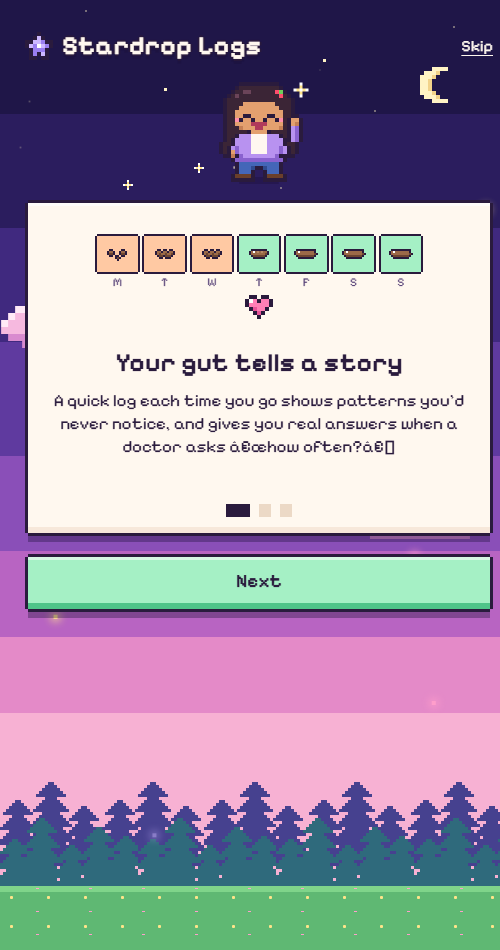
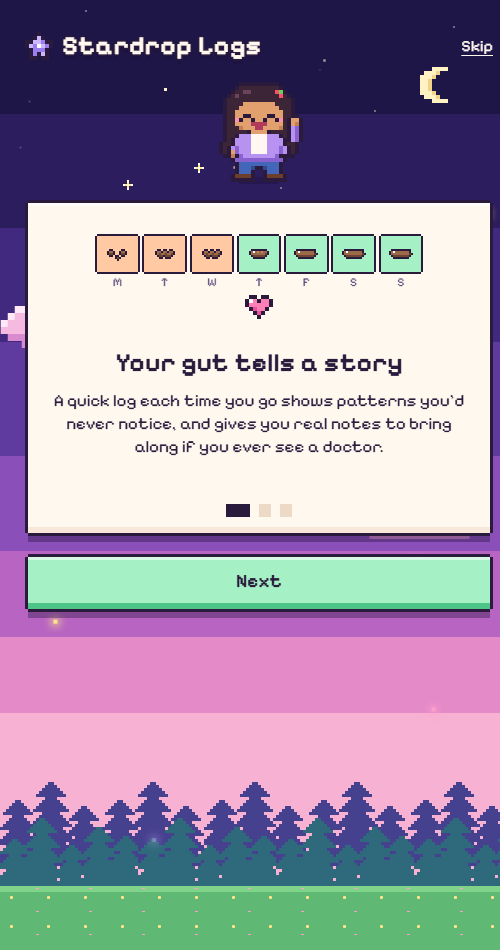
Firm medical disclaimer, red-flag colours, launch checks
- New /disclaimer page; a "not medical advice, see a doctor" note under
  every main screen; sign-up agreement names it explicitly
- Every health message now points to a real doctor; red, black and pale
  colours always say "please see a doctor" (today card + after saving)
- Email footers carry the disclaimer
- Fix garbled quotes on the first welcome slide
- Pin Node >= 20.9 for Vercel

Changed region(s): [[0.12, 0.4274, 0.9, 0.4884], [0.6, 0.0916, 0.63, 0.1221], [0.09, 0.6411, 0.12, 0.6716]]

diff --git a/src/lib/rhythm.ts b/src/lib/rhythm.ts
@@ -1,9 +1,11 @@
 // "Is this normal?" for how often someone goes.
 //
 // The usual rule of thumb is anywhere from 3 times a day to 3 times a week,
-// with type 3-4 being the comfy middle. So the answer depends on two things:
-// how many times today, and whether those were loose or dry. The wording is
-// gentle on purpose. It's a nudge, not a diagnosis.
+// with type 3-4 being the comfy middle. So the answer depends on how many
+// times today, whether those were loose or dry, and the colour.
+// This is a general rule of thumb, never a diagnosis: anything unusual
+// points the person to a doctor.
+import { COLORS } from "./colors";
 import { dayKey, daysAgo } from "./dates";
 import type { PoopLog } from "./types";
 
@@ -38,12 +40,20 @@ export function todayRhythm(today: PoopLog[]): Rhythm {
   const watery = today.some((l) => l.stool_type === 7);
   const dry = today.filter((l) => l.category === "dry").length;
 
+  if (today.some((l) => COLORS[l.color].checkIn)) {
+    return {
+      level: "talk",
+      title: "Please check in with a doctor",
+      detail:
+        "You logged a colour that a doctor should look at. This app can't tell you what it means, so please book a visit, and seek urgent care if you feel unwell.",
+    };
+  }
   if (loose >= 3 || (watery && n >= 3)) {
     return {
       level: "talk",
       title: "A rainy day for your tummy",
       detail:
-        "Several loose ones today. Sip water or an electrolyte drink and keep meals gentle. If it lasts more than 2 days, or you see blood or have a fever, check in with a doctor.",
+        "Several loose ones today. Please see a doctor if it lasts more than 2 days, or straight away if you see blood, have a fever or feel very unwell.",
     };
   }
   if (n > NORMAL_MAX_PER_DAY) {
@@ -51,14 +61,14 @@ export function todayRhythm(today: PoopLog[]): Rhythm {
       level: "watch",
       title: `${n} times is a busy day`,
       detail:
-        "That's more than the usual 3 a day. Often it's just food, coffee or nerves. If it keeps happening for a few days, it's worth mentioning to a doctor.",
+        "That's more than the usual 3 a day. If it keeps happening, or you feel unwell, please see a doctor.",
     };
   }
   if (loose >= 2) {
     return {
       level: "watch",
       title: "A little on the loose side",
-      detail: "Keep sipping fluids today. Plain, gentle food can help things settle.",
+      detail: "Keep sipping water today. If it doesn't settle or you feel unwell, please see a doctor.",
     };
   }
   if (dry > 0 && dry === n) {

diff --git a/src/app/disclaimer/page.tsx b/src/app/disclaimer/page.tsx
@@ -1,0 +1,58 @@
+import Link from "next/link";
+import AuthShell from "@/components/auth/AuthShell";
+
+export const metadata = { title: "Not medical advice" };
+
+// Plain-English medical disclaimer, linked from sign-up and every screen.
+const SEE_A_DOCTOR = [
+  "Blood in or on your stool, or red, black or tarry stool",
+  "Pale, clay-coloured or greasy stool",
+  "Belly pain that's strong, or doesn't go away",
+  "Diarrhea lasting more than 2 days, or signs of dehydration",
+  "No bowel movement for several days with discomfort or bloating",
+  "Fever, vomiting, or losing weight without trying",
+  "Any change in your habits that lasts more than a couple of weeks",
+  "Anything at all that worries you",
+];
+
+export default function DisclaimerPage() {
+  return (
+    <AuthShell
+      title="Not medical advice"
+      subtitle="Please read this. It's short, and it matters."
+      mia="inspect"
+      footer={<Link href="/" className="underline underline-offset-4">Back to the garden</Link>}
+    >
+      <div className="flex flex-col gap-4 text-[17px]">
+        <p>
+          Stardrop Logs is a <strong>wellness diary</strong>. It helps you keep notes and spot patterns.
+          It is <strong>not a medical device or service</strong>, and nobody here is a doctor.
+        </p>
+        <p>
+          Nothing in the app (Mia&apos;s tips, the &quot;is this normal?&quot; notes, the charts or the
+          suggestions) is a diagnosis or treatment, and none of it replaces advice from a
+          qualified health professional. Never delay or skip seeing a doctor because of something
+          you read here.
+        </p>
+
+        <section className="bg-cream-2 px-3 py-3">
+          <h2 className="text-[19px] font-bold">Please see a doctor if you notice</h2>
+          <ul className="mt-2 flex list-disc flex-col gap-1 pl-5 text-[16px]">
+            {SEE_A_DOCTOR.map((item) => (
+              <li key={item}>{item}</li>
+            ))}
+          </ul>
+        </section>
+
+        <p className="bg-[#ffe1ec] px-3 py-2.5 font-semibold">
+          In an emergency (severe pain, heavy bleeding, fainting, or feeling very unwell), call your
+          local emergency number or go to the nearest emergency department straight away.
+        </p>
+
+        <p className="text-[16px] text-plum-soft">
+          Your logs can be handy to show your doctor. Settings &gt; Export downloads them as a spreadsheet.
+        </p>
+      </div>
+    </AuthShell>
+  );
+}

diff --git a/src/components/log/LogCreator.tsx b/src/components/log/LogCreator.tsx
@@ -14,7 +14,7 @@ import type { MiaHandle } from "@/components/mia/MiaSprite";
 import PixelArt from "@/components/ui/PixelArt";
 import { buttonClass, pressBoing, releaseBoing } from "@/components/ui/PixelButton";
 import { BRISTOL_LIST, CATEGORY_COLOR, categoryOf } from "@/lib/bristol";
-import { COLOR_LIST } from "@/lib/colors";
+import { COLORS, COLOR_LIST } from "@/lib/colors";
 import { FACTOR_LIST } from "@/lib/factors";
 import { CROP_ART } from "@/lib/crops";
 import { dayKey } from "@/lib/dates";
@@ -380,7 +380,7 @@ export default function LogCreator({ recentTimes = [], tryOut = false }: Readonl
         </button>
       </div>
 
-      {done && <PlantedOverlay category={done.category} nth={done.nth} tryOut={tryOut} />}
+      {done && <PlantedOverlay category={done.category} nth={done.nth} tryOut={tryOut} seeDoctor={COLORS[color].checkIn} />}
     </div>
   );
 }
@@ -391,7 +391,15 @@ function submitLabel(pending: boolean, ready: boolean, tryOut: boolean) {
   return ready ? "Plant it!" : "Pick a type first";
 }
 
-function PlantedOverlay({ category, nth, tryOut }: Readonly<{ category: StoolCategory; nth: number; tryOut: boolean }>) {
+interface PlantedProps {
+  category: StoolCategory;
+  nth: number;
+  tryOut: boolean;
+  /** A colour that always gets a "see a doctor" note. */
+  seeDoctor: boolean;
+}
+
+function PlantedOverlay({ category, nth, tryOut, seeDoctor }: Readonly<PlantedProps>) {
   const text = DONE_TEXT[category];
   const crop = CROP_ART[PLANTED_CROP[category]];
   return (
@@ -407,6 +415,11 @@ function PlantedOverlay({ category, nth, tryOut }: Readonly<{ category: StoolCat
         <PixelArt grid={crop} scale={7} />
         <p className="text-[26px] font-bold">{text.title}</p>
         <p className="text-[17px]">{tryOut ? "That's all it takes! (Just a demo, nothing was saved.)" : text.body}</p>
+        {seeDoctor && (
+          <p className="bg-[#ffe1ec] px-3 py-2 text-[15px] font-semibold">
+            That colour needs a doctor&apos;s opinion. Please book a visit.
+          </p>
+        )}
         {nth > 1 && (
           <p className="text-[15px] text-plum-soft">
             That&apos;s your {ordinal(nth)} today.{nth > 3 ? " Busy day! I'll keep an eye on it." : " Totally normal!"}

diff --git a/src/lib/colors.ts b/src/lib/colors.ts
@@ -1,5 +1,5 @@
-// Stool colours with friendly names. The checkIn ones come with a gentle
-// "worth asking a doctor" note.
+// Stool colours with friendly names. The checkIn ones always come with a
+// "please see a doctor" note. The app never guesses what a colour means.
 import type { StoolColor } from "./types";
 
 export interface ColorInfo {
@@ -16,10 +16,10 @@ export const COLORS: Record<StoolColor, ColorInfo> = {
   dark_brown:  { key: "dark_brown",  label: "Dark loam",  hex: "#5b3a2a", checkIn: false },
   light_brown: { key: "light_brown", label: "Sandy loam", hex: "#b98a5e", checkIn: false },
   green:       { key: "green",       label: "Mossy",      hex: "#6f8f3e", checkIn: false, note: "Often from leafy greens. Totally normal!" },
-  yellow:      { key: "yellow",      label: "Straw",      hex: "#d9b44a", checkIn: false, note: "If it's greasy or sticks around, mention it to a doctor." },
-  clay_pale:   { key: "clay_pale",   label: "Pale clay",  hex: "#d8cbb2", checkIn: true,  note: "Pale or clay-coloured stool is worth checking with a doctor." },
-  red:         { key: "red",         label: "Red clay",   hex: "#a83a32", checkIn: true,  note: "Unless you've had beets, red is worth checking with a doctor." },
-  black:       { key: "black",       label: "Charcoal",   hex: "#2b2424", checkIn: true,  note: "Unless you take iron or bismuth, black is worth checking with a doctor." },
+  yellow:      { key: "yellow",      label: "Straw",      hex: "#d9b44a", checkIn: false, note: "If it's greasy or keeps happening, please see a doctor." },
+  clay_pale:   { key: "clay_pale",   label: "Pale clay",  hex: "#d8cbb2", checkIn: true,  note: "Pale or clay-coloured stool needs a doctor's opinion. Please book a visit." },
+  red:         { key: "red",         label: "Red clay",   hex: "#a83a32", checkIn: true,  note: "Red can be a sign of blood. Please see a doctor to be safe." },
+  black:       { key: "black",       label: "Charcoal",   hex: "#2b2424", checkIn: true,  note: "Black or tarry stool needs a doctor's opinion. Please see one soon." },
 };
 
 export const COLOR_LIST = Object.values(COLORS);

diff --git a/src/components/dashboard/TodayCard.tsx b/src/components/dashboard/TodayCard.tsx
@@ -132,8 +132,8 @@ export default function TodayCard(props: Readonly<TodayCardProps>) {
 
       {longGap && (
         <p className="mt-3 bg-cream-2 px-3 py-2 text-[15px]">
-          It&apos;s been {days} days. If you feel bloated, in pain or unwell, or it keeps going, a
-          pharmacist or doctor can help.
+          It&apos;s been {days} days. If you feel bloated, in pain or unwell, or it keeps going,
+          please see a doctor.
         </p>
       )}
 
@@ -157,7 +157,7 @@ export default function TodayCard(props: Readonly<TodayCardProps>) {
       {/* Ideas stay folded away so the card stays calm. */}
       <details className="group mt-3">
         <summary className="cursor-pointer list-none text-[16px] text-plum-soft underline underline-offset-4">
-          <span className="group-open:hidden">Haven&apos;t gone? A few gentle ideas</span>
+          <span className="group-open:hidden">Haven&apos;t gone? A few everyday ideas</span>
           <span className="hidden group-open:inline">Hide ideas</span>
         </summary>
         <ul className="mt-3 flex flex-col gap-2.5">
@@ -173,6 +173,7 @@ export default function TodayCard(props: Readonly<TodayCardProps>) {
             </li>
           ))}
         </ul>
+        <p className="mt-2 text-[13px] text-plum-soft">Everyday habits, not treatment. See a doctor for anything that worries you.</p>
       </details>
     </section>
   );

diff --git a/src/components/auth/Welcome.tsx b/src/components/auth/Welcome.tsx
@@ -17,7 +17,7 @@ gsap.registerPlugin(useGSAP);
 const SLIDES: { title: string; body: string; mia: MiaState; Art: ComponentType }[] = [
   {
     title: "Your gut tells a story",
-    body: "A quick log each time you go shows patterns you'd never notice, and gives you real answers when a doctor asks â€œhow often?â€",
+    body: "A quick log each time you go shows patterns you'd never notice, and gives you real notes to bring along if you ever see a doctor.",
     mia: "help",
     Art: WeekStory,
   },
@@ -129,7 +129,10 @@ export default function Welcome({ bye = false }: Readonly<{ bye?: boolean }>) {
               Peek at a sample
             </Link>
           </div>
-          <p className="text-center text-[15px] text-cream">Private by default: only you can see your logs.</p>
+          <p className="text-center text-[15px] text-cream">
+            Private by default: only you can see your logs. A diary, not medical advice:
+            for health worries, please see a doctor.
+          </p>
         </div>
       ) : (
         <button

diff --git a/src/lib/dialogue.ts b/src/lib/dialogue.ts
@@ -35,7 +35,7 @@ function statusLine(hello: string, garden: Garden, last: PoopLog | undefined): s
   }
   if (!garden.loggedToday) {
     if (days !== null && days >= CHECK_IN_AFTER_DAYS) {
-      return `${hello} It's been ${days} days since your last movement. Try the ideas below, and if it keeps up or you feel unwell, a pharmacist or doctor can help.`;
+      return `${hello} It's been ${days} days since your last movement. If you're uncomfortable, in pain, or it keeps going, please see a doctor.`;
     }
     return `${hello} Haven't gone yet? Totally okay! I left a few gentle ideas below.`;
   }
@@ -66,7 +66,7 @@ export function dashboardLines(
   if (last?.category === "dry") {
     lines.push("Things were a bit dry lately. Extra water and some fruit might help!");
   } else if (last?.category === "loose") {
-    lines.push("A rainy spell? Sip fluids, keep meals gentle, and rest up.");
+    lines.push("A rainy spell? Sip water and rest up. If it lasts, please see a doctor.");
   }
 
   lines.push(pick(TIPS, seed), pick(TIPS, seed + 3));

diff --git a/src/components/auth/AuthForms.tsx b/src/components/auth/AuthForms.tsx
@@ -40,7 +40,9 @@ export function SignUpForm() {
       <label className="flex items-start gap-3 text-[16px]">
         <input type="checkbox" name="agree" className="mt-1 size-5 shrink-0 accent-[#4fc489]" required />
         <span>
-          I understand Stardrop Logs is a wellness diary, not medical advice, and I&apos;ve read the{" "}
+          I understand Stardrop Logs is a wellness diary, <strong>not a medical service</strong>. It can&apos;t
+          diagnose or treat anything, and for any health concern I&apos;ll see a real doctor. I&apos;ve read the{" "}
+          <Link href="/disclaimer" className="underline underline-offset-2">medical disclaimer</Link> and{" "}
           <Link href="/privacy" className="underline underline-offset-2">privacy notes</Link>.
         </span>
       </label>

diff --git a/src/app/(farm)/layout.tsx b/src/app/(farm)/layout.tsx
@@ -3,6 +3,7 @@ import Link from "next/link";
 import PixelArt, { ICONS } from "@/components/ui/PixelArt";
 import TopNav from "@/components/nav/TopNav";
 import AccountLink from "@/components/nav/AccountLink";
+import MedicalNote from "@/components/legal/MedicalNote";
 
 // Logo + tabs shared by Garden and Insights. Everything here except the
 // account link is static, so it shows up instantly.
@@ -20,6 +21,7 @@ export default function FarmLayout({ children }: LayoutProps<"/">) {
       </header>
       <TopNav />
       {children}
+      <MedicalNote className="mt-2" />
     </main>
   );
 }

diff --git a/supabase/templates/confirm-signup.html b/supabase/templates/confirm-signup.html
@@ -102,7 +102,8 @@
           <tr>
             <td align="center" style="padding:18px 10px 0; font-family:'Trebuchet MS',Verdana,Arial,sans-serif; font-size:12px; line-height:1.6; color:#fff8ef;">
               Didn't sign up? No worries, just ignore this email and nothing happens.<br>
-              Your logs are private and only ever visible to you.
+              Your logs are private and only ever visible to you.<br>
+              Stardrop Logs is a wellness diary, not medical advice. For health concerns, please see a doctor.
             </td>
           </tr>
         </table>

diff --git a/supabase/templates/reset-password.html b/supabase/templates/reset-password.html
@@ -85,7 +85,8 @@
           <tr>
             <td align="center" style="padding:18px 10px 0; font-family:'Trebuchet MS',Verdana,Arial,sans-serif; font-size:12px; line-height:1.6; color:#fff8ef;">
               Didn't ask for this? Ignore this email and your password stays the same.<br>
-              Your logs are private and only ever visible to you.
+              Your logs are private and only ever visible to you.<br>
+              Stardrop Logs is a wellness diary, not medical advice. For health concerns, please see a doctor.
             </td>
           </tr>
         </table>

diff --git a/src/app/log/page.tsx b/src/app/log/page.tsx
@@ -1,5 +1,6 @@
 import { Suspense } from "react";
 import LogCreator from "@/components/log/LogCreator";
+import MedicalNote from "@/components/legal/MedicalNote";
 import LoadingCard from "@/components/ui/LoadingCard";
 import PixelArt, { ICONS } from "@/components/ui/PixelArt";
 import { requireUser } from "@/lib/auth";
@@ -17,6 +18,7 @@ export default function LogPage() {
       <Suspense fallback={<LoadingCard text="Opening the log book…" />}>
         <Gate />
       </Suspense>
+      <MedicalNote />
     </main>
   );
 }
